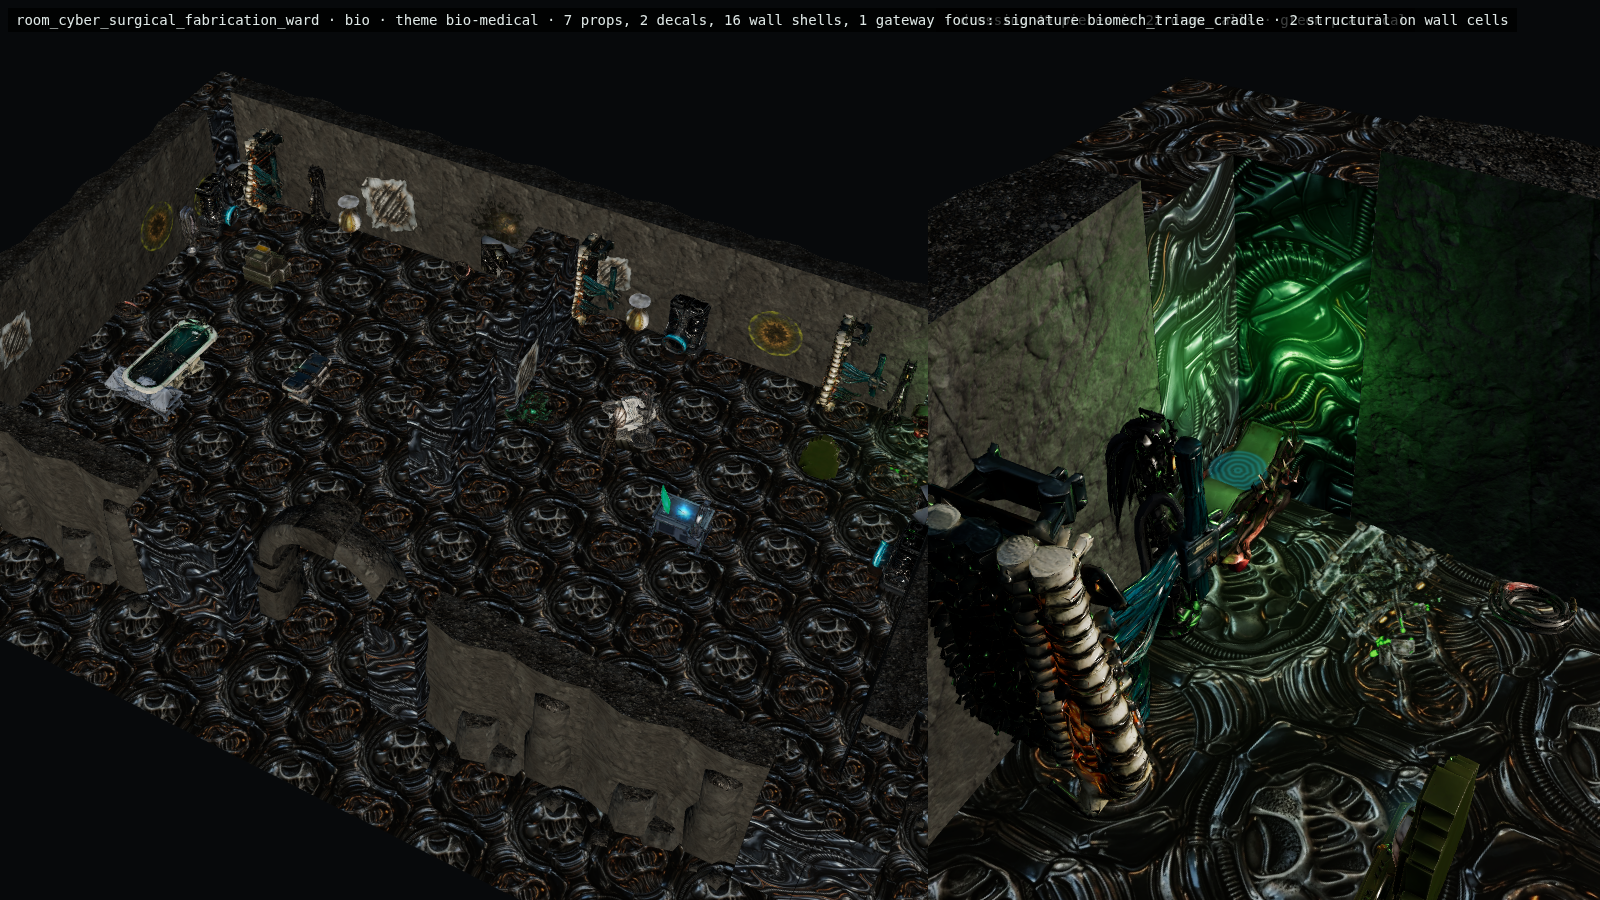
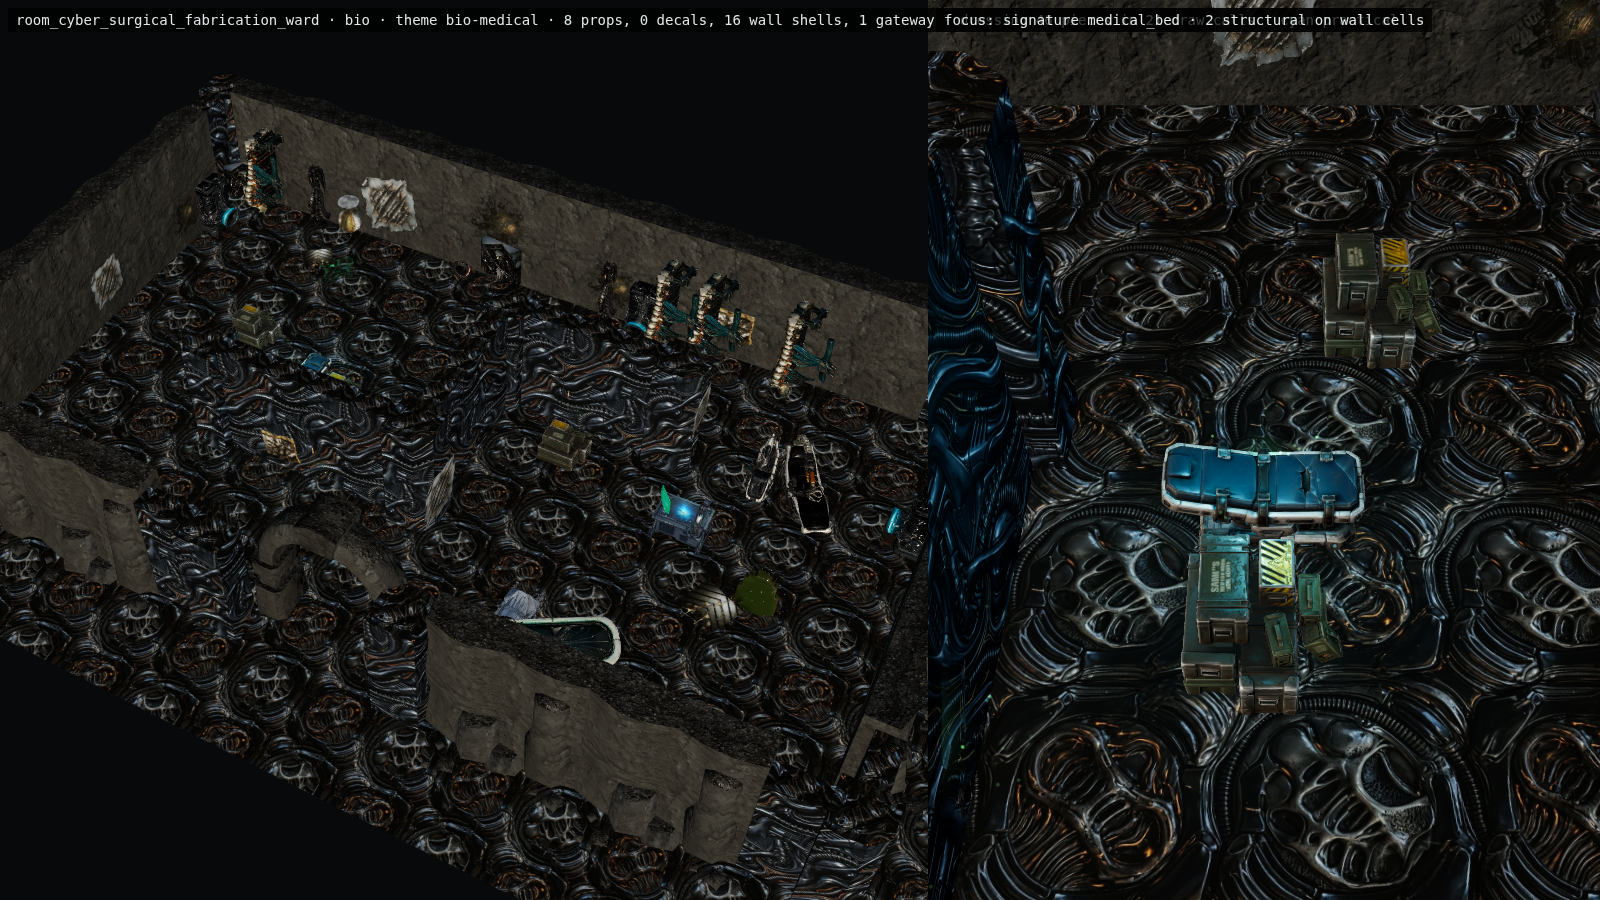
feat(levels): split cyber ward into care and fabrication

diff --git a/src/cathedralBlueprints.test.js b/src/cathedralBlueprints.test.js
@@ -11,6 +11,24 @@ import {
 import { CHUNK_SIZE } from './tileCatalog.js';
 import { buildAuthoredRoomChunkStructure } from './chunkStructure.js';
 
+function shortestPatternPath(pattern, start, goal, blocked = new Set()) {
+    const key = ({ x, y }) => `${x},${y}`;
+    const queue = [{ ...start, distance: 0 }];
+    const seen = new Set([key(start)]);
+    for (let index = 0; index < queue.length; index += 1) {
+        const current = queue[index];
+        if (current.x === goal.x && current.y === goal.y) return current.distance;
+        for (const [dx, dy] of [[1, 0], [-1, 0], [0, 1], [0, -1]]) {
+            const next = { x: current.x + dx, y: current.y + dy };
+            const nextKey = key(next);
+            if (pattern[next.y]?.[next.x] !== '.' || blocked.has(nextKey) || seen.has(nextKey)) continue;
+            seen.add(nextKey);
+            queue.push({ ...next, distance: current.distance + 1 });
+        }
+    }
+    return Infinity;
+}
+
 describe('CATHEDRAL_ROOM_BLUEPRINTS', () => {
     it('has exactly the 8 cathedral blueprints defined in the planning doc', () => {
         expect(CATHEDRAL_ROOM_BLUEPRINTS).toHaveLength(8);
@@ -93,6 +111,45 @@ describe('CATHEDRAL_ROOM_BLUEPRINTS', () => {
         expect(stasis.structuralAnchors.every((anchor) => stasis.pattern[anchor.y][anchor.x] === '#')).toBe(true);
         expect(stasis.rewardAnchors[0]).toMatchObject({ x: 11, y: 6 });
         expect(stasis.loreAnchors[0]).toMatchObject({ x: 13, y: 6 });
+    });
+
+    it('gives the cyber-surgical ward unequal bays joined by a fixed inspection loop', () => {
+        const ward = CATHEDRAL_ROOM_BLUEPRINTS.find((build) => build.id === 'room_cyber_surgical_fabrication_ward');
+        expect(ward.pattern).toEqual([
+            '...................',
+            '...................',
+            '...................',
+            '.........#####.....',
+            '.........#.........',
+            '.........#.........',
+            '.........#.........',
+            '....######.........',
+            '...................',
+            '...................',
+            '...................'
+        ]);
+        const approach = computeApproachPoint(ward);
+        const surgery = { x: 5, y: 5 };
+        const fabricator = { x: 14, y: 5 };
+        const northCrosscut = new Set();
+        const southCrosscut = new Set();
+        for (let x = 5; x <= 14; x += 1) {
+            northCrosscut.add(`${x},2`);
+            southCrosscut.add(`${x},8`);
+        }
+        expect(approach).toEqual({ x: 9, y: 8 });
+        expect(shortestPatternPath(ward.pattern, approach, surgery))
+            .toBeGreaterThan(shortestPatternPath(ward.pattern, approach, fabricator));
+        expect(shortestPatternPath(ward.pattern, surgery, fabricator, northCrosscut)).toBeLessThan(Infinity);
+        expect(shortestPatternPath(ward.pattern, surgery, fabricator, southCrosscut)).toBeLessThan(Infinity);
+        expect(ward.signatureAnchorId).toBe('surgical_slab_controls');
+        expect(ward.structuralAnchors.every((anchor) => ward.pattern[anchor.y][anchor.x] === '#')).toBe(true);
+        expect(ward.interactionAnchors).toContainEqual(expect.objectContaining({
+            id: 'surgical_slab_controls', type: 'prop_medical_bed', x: 5, y: 5
+        }));
+        expect(ward.interactionAnchors).toContainEqual(expect.objectContaining({
+            id: 'fabricator_ward_terminal', type: 'prop_fabricator_workstation', x: 14, y: 5
+        }));
     });
 
     it('gives the quarantine airlock two offset sluices around one purge gallery', () => {

diff --git a/src/data/cathedralBlueprints.js b/src/data/cathedralBlueprints.js
@@ -207,10 +207,14 @@ export const CATHEDRAL_ROOM_BLUEPRINTS = Object.freeze([
         id: 'room_cyber_surgical_fabrication_ward',
         family: 'medical',
         themeStyle: 'giger',
+        // P1 dual-process proof: opposing returns make one S-shaped divider.
+        // The south threshold offers a short fabrication route or a longer,
+        // private care route; both reconnect through the permanent north
+        // crosscut. Presentation states never change this topology.
         pattern: buildPattern(19, 11, [
-            // Dividing wall between Bay A and Bay B with open center threshold and approach
-            { x: 9, y: 1, w: 1, h: 3 },
-            { x: 9, y: 5, w: 1, h: 2 }
+            { x: 9, y: 3, w: 5, h: 1 },
+            { x: 9, y: 4, w: 1, h: 3 },
+            { x: 4, y: 7, w: 6, h: 1 }
         ]),
         sockets: [
             { id: 'entry', side: 's', width: 3, required: true }
@@ -220,20 +224,29 @@ export const CATHEDRAL_ROOM_BLUEPRINTS = Object.freeze([
         biomeEligibility: ['active', 'cryo', 'bio'],
         roles: ['support', 'questDestination'],
         structuralAnchors: [
-            { id: 'bay_divider_north', type: 'prop_vital_monitor', x: 9, y: 2 },
-            { id: 'bay_divider_south', type: 'prop_vital_monitor', x: 9, y: 6 }
+            { id: 'bay_divider_north', type: 'prop_vital_monitor', x: 11, y: 3 },
+            { id: 'bay_divider_south', type: 'prop_vital_monitor', x: 7, y: 7 }
         ],
         interactionAnchors: [
             { id: 'surgical_slab_controls', type: 'prop_medical_bed', x: 5, y: 5 },
             { id: 'fabricator_ward_terminal', type: 'prop_fabricator_workstation', x: 14, y: 5 }
         ],
+        signatureAnchorId: 'surgical_slab_controls',
         compassAnchors: { approach: 'entry', objective: 'surgical_slab_controls' },
-        coverZones: [{ x: 8, y: 1, w: 3, h: 9 }],
+        coverZones: [
+            { x: 9, y: 3, w: 5, h: 1 },
+            { x: 9, y: 3, w: 1, h: 5 },
+            { x: 4, y: 7, w: 6, h: 1 }
+        ],
         encounterZones: [],
-        rewardAnchors: [{ id: 'surgical_supplies', type: 'prop_bunker_supplies', x: 2, y: 2 }],
-        loreAnchors: [{ id: 'surgical_triage_log', type: 'lore_terminal', x: 16, y: 2 }],
+        rewardAnchors: [{ id: 'surgical_supplies', type: 'prop_bunker_supplies', x: 3, y: 4 }],
+        loreAnchors: [{ id: 'surgical_triage_log', type: 'lore_terminal', x: 16, y: 6 }],
         hazardZones: [],
-        quietZones: [{ x: 0, y: 0, w: 19, h: 11 }],
+        quietZones: [
+            { x: 1, y: 3, w: 8, h: 5 },
+            { x: 10, y: 3, w: 8, h: 5 },
+            { x: 7, y: 8, w: 5, h: 3 }
+        ],
         safeZone: true,
         containmentBounds: { minX: 0, minY: 0, maxX: 18, maxY: 10 },
         presentationVariants: ['sterile', 'field_dressing', 'abandoned'],

diff --git a/tests/e2e/probes/p1-cyber-surgical-ward-gameplay-camera.spec.js b/tests/e2e/probes/p1-cyber-surgical-ward-gameplay-camera.spec.js
@@ -1,0 +1,19 @@
+import { test, expect } from '@playwright/test';
+
+// P1 dual-process proof: the longer care route, tempting fabrication bay and
+// permanent north crosscut must survive every gameplay-camera rotation.
+for (let rotation = 0; rotation < 4; rotation += 1) {
+    test(`P1 cyber-surgical ward game camera — R${rotation}`, async ({ page }) => {
+        await page.setViewportSize({ width: 1600, height: 900 });
+        await page.goto(`/tests/e2e/fixtures/furnished-room-showroom.html?build=room_cyber_surgical_fabrication_ward&biome=bio&review=gameplay&rotation=${rotation}`);
+        await page.waitForFunction(() => window.__showroom?.ready === true, null, { timeout: 90_000 });
+        const result = await page.evaluate(() => window.__showroom);
+        expect(result.reviewMode).toBe(true);
+        expect(result.rotation).toBe(rotation);
+        expect(result.cutawayCells).toBeGreaterThan(0);
+        expect(result.props + result.decals).toBeGreaterThan(0);
+        await page.screenshot({
+            path: `docs/reports/assets/furnished-rooms/p1-cyber_surgical_ward-game-camera-r${rotation}.png`
+        });
+    });
+}

diff --git a/docs/planning/n64-architectural-level-design-overhaul-2026-10-10.md b/docs/planning/n64-architectural-level-design-overhaul-2026-10-10.md
@@ -689,7 +689,20 @@ at `docs/reports/assets/furnished-rooms/p1-field_fabricator-game-camera-r*.png`.
 The bench and terminal currently share one workstation GLB. Distinct light, grime, screen, and
 interaction treatment must carry their separate roles until the bench receives unique art. Future
 nozzle, carriage, clamp, or output-tray animation stays bounded inside the prop footprint and never
-changes navigation collision. Next P1 candidate: `room_cyber_surgical_fabrication_ward`.
+changes navigation collision.
+
+The sixth P1 proof is `room_cyber_surgical_fabrication_ward`. Opposing horizontal returns and a
+shared spine create an asymmetric S-partition. From the south comparison threshold, fabrication is
+the short tempting route while care requires a longer private commitment; a permanent northern
+crosscut closes the inspection loop. The preserved `surgical_slab_controls` medical bed becomes the
+authored signature and cyan focal practical. Exact-pattern tests prove the unequal approach and both
+bay connections, and four gameplay-camera/cutaway captures live at
+`docs/reports/assets/furnished-rooms/p1-cyber_surgical_ward-game-camera-r*.png`.
+
+Future restraints, surgical arms, fabrication trays/nozzles, and monitor shutters remain bounded
+and non-colliding. Presentation/state variants may change screens, lighting, stains, audio, and
+particles, never bay access or wall cells. This completes the six-room P1 flat-topology set. The
+next authored-room lane begins P2 with `power_puzzle`.
 
 ### 9.6.2 Authored-geometry persistence gate
 
@@ -1044,6 +1057,10 @@ chunk mounts.
   asymmetric work-cell loop. Its fallback-resource terminal keeps identity and now owns cyan focal
   light; both island paths and all four camera rotations pass. Bench/terminal GLB duplication and
   bounded fabrication articulation remain presentation work.
+- 2026-10-11: Lane A completed P1 by rebuilding the cyber-surgical ward around an asymmetric
+  S-partition. The short fabrication route and longer private care route reconnect north; the
+  preserved medical-bed objective owns cyan hierarchy. Exact geometry, both loop connections, and
+  all four camera rotations pass; future articulation remains local and non-colliding.
 - 2026-10-10: Round 2 done (`1b0fce7c`): chasm landmarks plus tactical-map glyphs. Criteria 1,
   3, 4 and 5 met; criterion 2 not met as written, with the reason and the map-based answer in
   §9.10.

diff --git a/docs/planning/world-design-doctrine-n64-lessons-2026-10-10.md b/docs/planning/world-design-doctrine-n64-lessons-2026-10-10.md
@@ -519,8 +519,22 @@ The structural bench and interactive terminal currently resolve to the same work
 proof separates their projection lines and hierarchy, but future art should give the bench a low
 amber work treatment and the terminal the dominant cyan screen. A bounded nozzle, carriage, clamp,
 or output-tray cycle may animate inside the prop footprint; it must never become navigation
-collision or change the loop. The next P1 candidate is
-`room_cyber_surgical_fabrication_ward`.
+collision or change the loop.
+
+`room_cyber_surgical_fabrication_ward` is the sixth P1 proof. Opposing returns form an asymmetric
+S-partition: the south comparison threshold offers a short fabrication route or a deliberately
+longer, more private medical commitment, and both bays reconnect through a permanent north
+crosscut. The preserved `surgical_slab_controls` medical bed is now the authored signature and
+cyan focal practical; the fabrication terminal remains a visible counter-focal across the divide.
+Tests pin the exact pattern, prove the care route is longer, prove both loop connections, and retain
+every anchor identity. All four rotation/cutaway captures live at
+`docs/reports/assets/furnished-rooms/p1-cyber_surgical_ward-game-camera-r*.png`.
+
+Bed restraints or surgical arms, fabricator trays/nozzles, monitor shutters, and state lighting may
+animate locally, but they remain non-colliding and inside their prop footprints. `sterile`,
+`field_dressing`, and `abandoned` may change light, stains, screens, sound, and particles only; no
+state closes a bay or creates a route. This completes the six-room P1 flat-topology proof set. The
+next authored-room lane begins P2 with `power_puzzle`.
 
 ### Authored-geometry save policy
 
